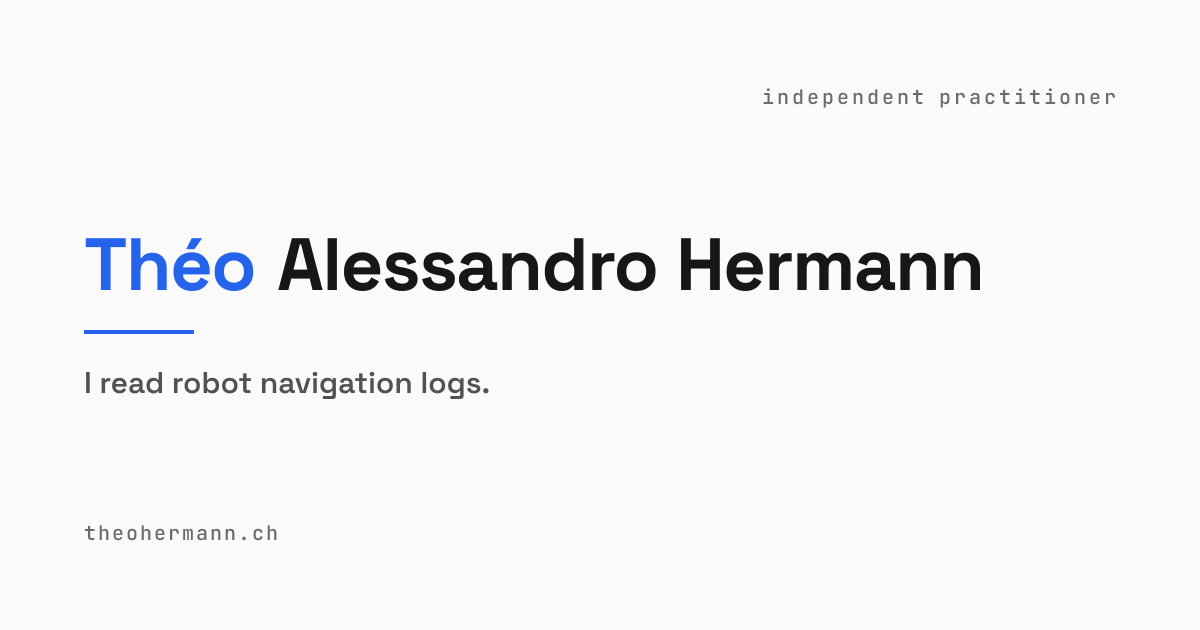
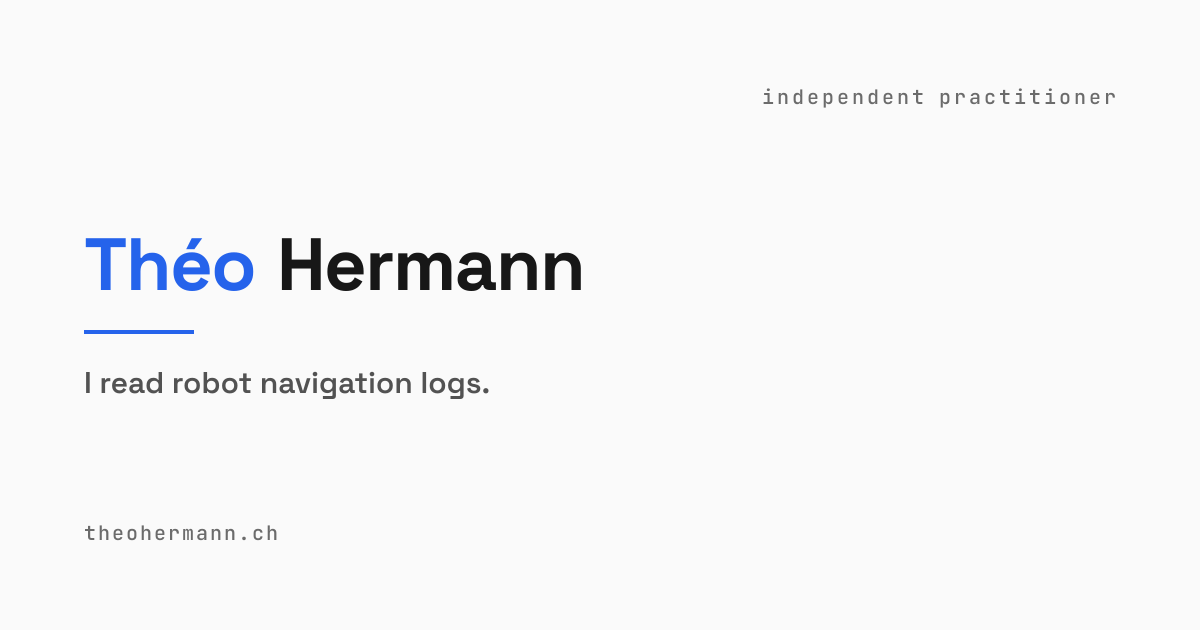
ch: the practice is Théo Hermann; the full name stays on the personal site
Claude-Session: https://claude.ai/code/session_01X5559hgoM3gGGDWQBK54RC

Changed region(s): [[0.2158, 0.3619, 0.8325, 0.4825]]

diff --git a/src/data/site.ts b/src/data/site.ts
@@ -1,8 +1,8 @@
 export const siteConfig = {
-  title: 'Théo Alessandro Hermann',
+  title: 'Théo Hermann',
   description:
     'I read robot navigation logs. I froze four fault detectors before I looked at any results, ran them unchanged on 108 minutes of recordings from five platforms, and published what they caught, what they missed, and the raw counts behind both.',
   url: 'https://theohermann.ch',
-  author: 'Théo Alessandro Hermann',
+  author: 'Théo Hermann',
   ogImage: '/og-default.png',
 };

diff --git a/src/styles/global.css b/src/styles/global.css
@@ -31,7 +31,7 @@
 }
 
 /* ==========================================================================
-   Design System — Théo Alessandro Hermann
+   Design System — Théo Hermann
    ========================================================================== */
 
 /* --------------------------------------------------------------------------

diff --git a/src/data/author.ts b/src/data/author.ts
@@ -1,7 +1,7 @@
 const email = 'theo@theohermann.ch';
 
 export const author = {
-  name: 'Théo Alessandro Hermann',
+  name: 'Théo Hermann',
   email,
   github: 'https://github.com/thrmnn',
   cal: 'https://cal.com/theo-hermann-aaa7tm',
